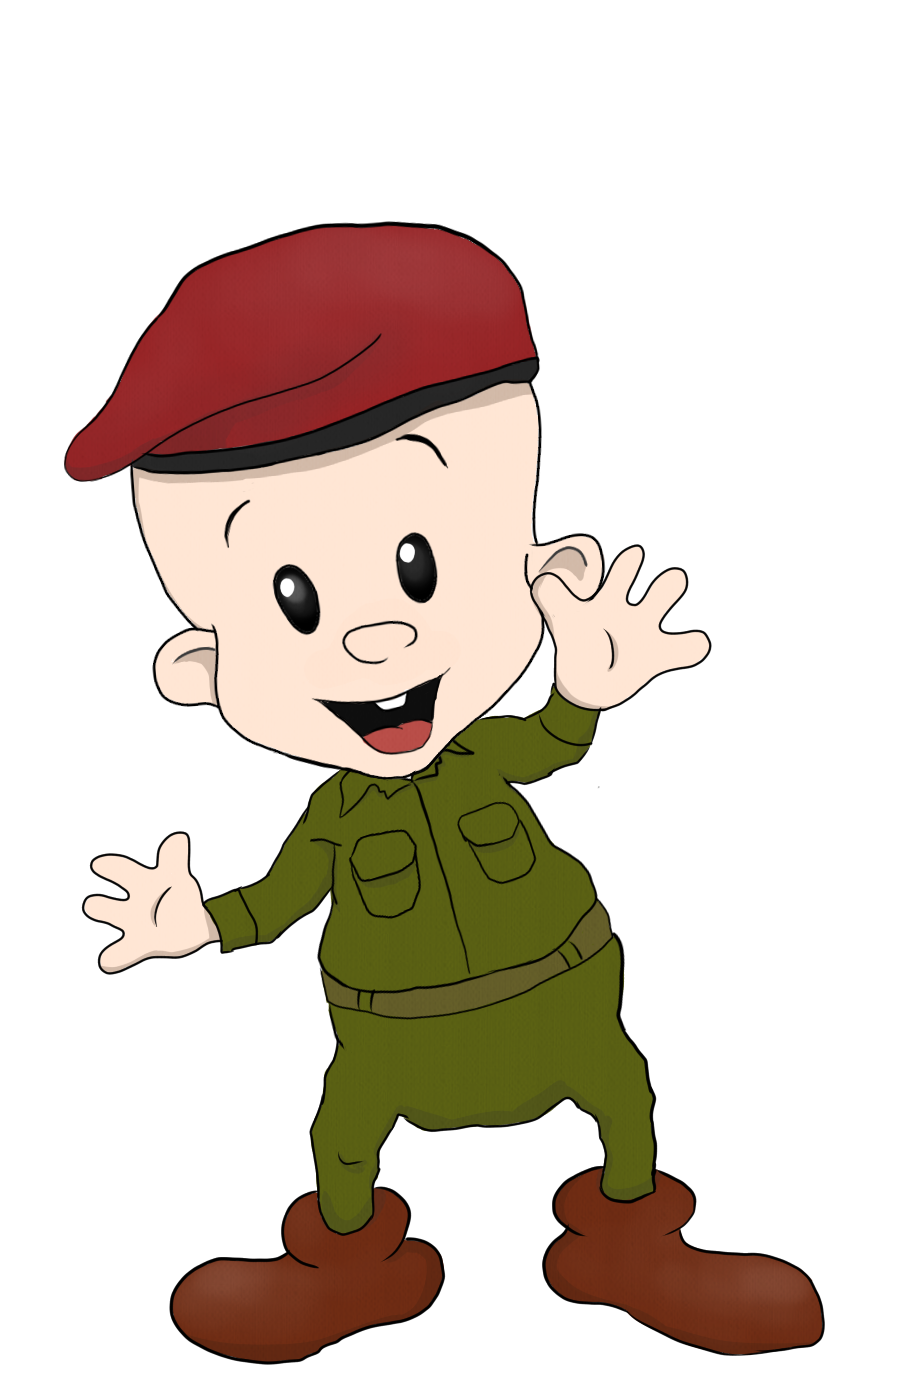
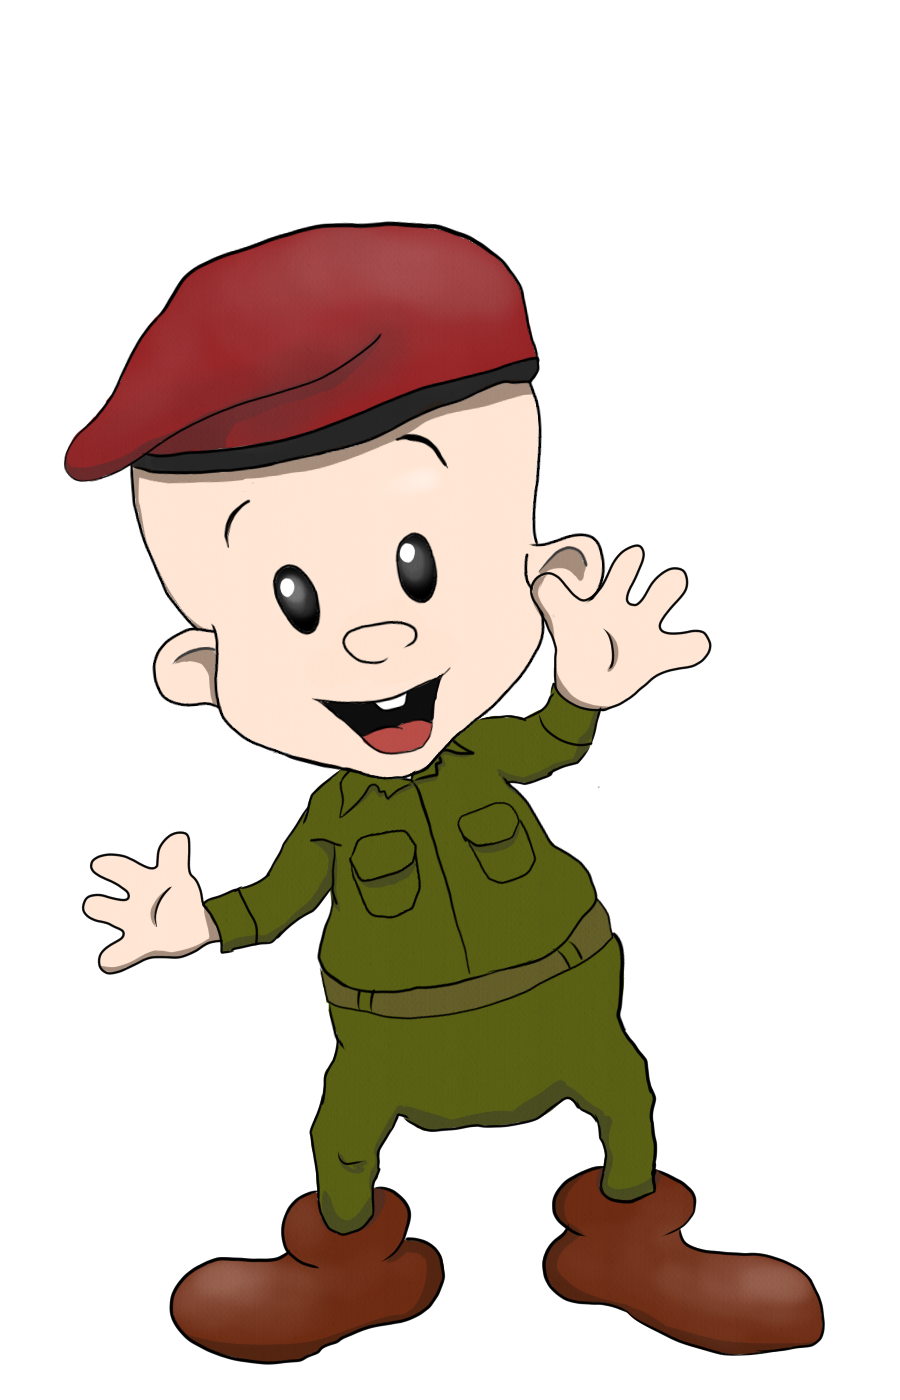
fix camera position being wrong when loading saves

diff --git a/Assets/_Main/Scripts/Core/ScriptableObjects/PointAndClickRoom.cs b/Assets/_Main/Scripts/Core/ScriptableObjects/PointAndClickRoom.cs
@@ -1,10 +1,9 @@
 using System.Collections;
-using System.Collections.Generic;
 using UnityEngine;
 using DIALOGUE;
 using Cinemachine;
 
-[CreateAssetMenu(menuName="Rooms/Point and Click Room")]
+[CreateAssetMenu(menuName = "Rooms/Point and Click Room")]
 public class PointAndClickRoom : Room
 {
     public Room exitRoom;
@@ -25,65 +24,70 @@ public class PointAndClickRoom : Room
 
     public override IEnumerator OnLoad()
     {
-        base.OnLoad();
-        VirutalCameraManager.instance.AssignVirtualCamera();
-        yield return null;
+        VirutalCameraManager.instance
+            .AssignVirtualCamera(); // Important, this must happen before the call to base, because base.OnLoad() yield returns null (meaning it waits for one frame), and this is problematic when loading a save, the extra frame before the vCam is disabled causes the master camera's position to change
+        yield return base.OnLoad();
     }
 
     public override IEnumerator AppearAnimation()
     {
         if (hasStartAnimation)
         {
-            yield return VirutalCameraManager.instance.SlideAcrossRoom(3f, GameObject.Find("World/TrackSlidingPos").transform.position);
+            yield return VirutalCameraManager.instance.SlideAcrossRoom(3f,
+                GameObject.Find("World/TrackSlidingPos").transform.position);
             yield return new WaitForSeconds(0.2f);
         }
     }
 
     public override void MovementControl()
     {
-      float horizontalInput = Input.GetAxis("Horizontal");
-      float verticalInput = Input.GetAxis("Vertical");
-      
-      if (VirutalCameraManager.instance.virtualCamera == null)
-          return;
+        float horizontalInput = Input.GetAxis("Horizontal");
+        float verticalInput = Input.GetAxis("Vertical");
 
-      float position = VirutalCameraManager.instance.virtualCamera.GetCinemachineComponent<CinemachineTrackedDolly>().m_PathPosition;
-      position += (horizontalInput * cameraDollySpeed * Time.deltaTime);
-      position = Mathf.Clamp(position, 0, VirutalCameraManager.instance.virtualCamera.GetCinemachineComponent<CinemachineTrackedDolly>().m_Path.PathLength - 1);
-      VirutalCameraManager.instance.virtualCamera.GetCinemachineComponent<CinemachineTrackedDolly>().m_PathPosition = position;
+        if (VirutalCameraManager.instance.virtualCamera == null)
+            return;
 
-      pitch -= verticalInput * rotationSpeed * Time.deltaTime;
-      pitch = Mathf.Clamp(pitch, borderUp, borderDown);
+        float position = VirutalCameraManager.instance.virtualCamera.GetCinemachineComponent<CinemachineTrackedDolly>()
+            .m_PathPosition;
+        position += (horizontalInput * cameraDollySpeed * Time.deltaTime);
+        position = Mathf.Clamp(position, 0,
+            VirutalCameraManager.instance.virtualCamera.GetCinemachineComponent<CinemachineTrackedDolly>().m_Path
+                .PathLength - 1);
+        VirutalCameraManager.instance.virtualCamera.GetCinemachineComponent<CinemachineTrackedDolly>().m_PathPosition =
+            position;
 
-      // Apply the updated pitch
-      VirutalCameraManager.instance.pitchControl.pitch = pitch;
+        pitch -= verticalInput * rotationSpeed * Time.deltaTime;
+        pitch = Mathf.Clamp(pitch, borderUp, borderDown);
+
+        // Apply the updated pitch
+        VirutalCameraManager.instance.pitchControl.pitch = pitch;
 
 
-        if(Input.GetKey(KeyCode.R))
+        if (Input.GetKey(KeyCode.R))
         {
-            if(!WorldManager.instance.currentRoomData.isExitable)
+            if (!WorldManager.instance.currentRoomData.isExitable)
             {
                 WorldEvent currentEvent = ProgressManager.instance.currentGameEvent as WorldEvent;
                 if (currentEvent == null)
                     return;
-                
-                if(currentEvent.unallowedText != null)
-                   VNNodePlayer.instance.StartConversation(currentEvent.unallowedText);
+
+                if (currentEvent.unallowedText != null)
+                    VNNodePlayer.instance.StartConversation(currentEvent.unallowedText);
             }
-            
+
             else
             {
                 WorldManager.instance.StartLoadingRoom(exitRoom, exitLocation);
             }
         }
-        
+
         CursorManager.instance.ReticleAsCursor();
-        if (Input.GetMouseButtonDown(0) && !DialogueSystem.instance.isActive && WorldManager.instance.currentRoom.currentInteractable)
+        if (Input.GetMouseButtonDown(0) && !DialogueSystem.instance.isActive &&
+            WorldManager.instance.currentRoom.currentInteractable)
         {
             WorldManager.instance.currentRoom.currentInteractable.Interact();
             VirutalCameraManager.instance.virtualCamera.gameObject.SetActive(false);
         }
-      
     }
 
     public override void OnConversationEnd()

diff --git a/Assets/_Main/Scripts/Core/WorldObjects/ProgressManager.cs b/Assets/_Main/Scripts/Core/WorldObjects/ProgressManager.cs
@@ -76,12 +76,11 @@ public class ProgressManager : MonoBehaviour
 
         CameraManager.instance.player.transform.position =
             new Vector3(data.playerPosition[0], data.playerPosition[1], data.playerPosition[2]);
-        ;
         CameraManager.instance.cameraTransform.localPosition =
             new Vector3(data.cameraPosition[0], data.cameraPosition[1], data.cameraPosition[2]);
         CameraManager.instance.cameraTransform.localRotation =
             Quaternion.Euler(new Vector3(data.cameraRotation[0], data.cameraRotation[1], data.cameraRotation[2]));
-
+        
         if(WorldManager.instance.currentRoom != null)
            WorldManager.instance.Initialize();
     }

diff --git a/Assets/_Main/Scripts/Core/WorldObjects/WorldManager.cs b/Assets/_Main/Scripts/Core/WorldObjects/WorldManager.cs
@@ -111,7 +111,7 @@ public class WorldManager : MonoBehaviour
         GameObject objectsParent = GameObject.Find("World Objects");
         if (objectsParent != null)
             characterPanel = objectsParent;
-
+        
         if (room.OnLoad() != null)
             yield return StartCoroutine(room.OnLoad());
         isLoading = false;

diff --git a/Assets/_Main/Scripts/Core/Camera/CameraManager.cs b/Assets/_Main/Scripts/Core/Camera/CameraManager.cs
@@ -1,4 +1,3 @@
-using System;
 using System.Collections;
 using System.Collections.Generic;
 using CHARACTERS;

diff --git a/Assets/_Main/Scripts/Core/ScriptableObjects/Room.cs b/Assets/_Main/Scripts/Core/ScriptableObjects/Room.cs
@@ -2,7 +2,6 @@ using System;
 using System.Collections;
 using System.Collections.Generic;
 using UnityEngine;
-using UnityEngine.Serialization;
 
 public abstract class Room : ScriptableObject
 {